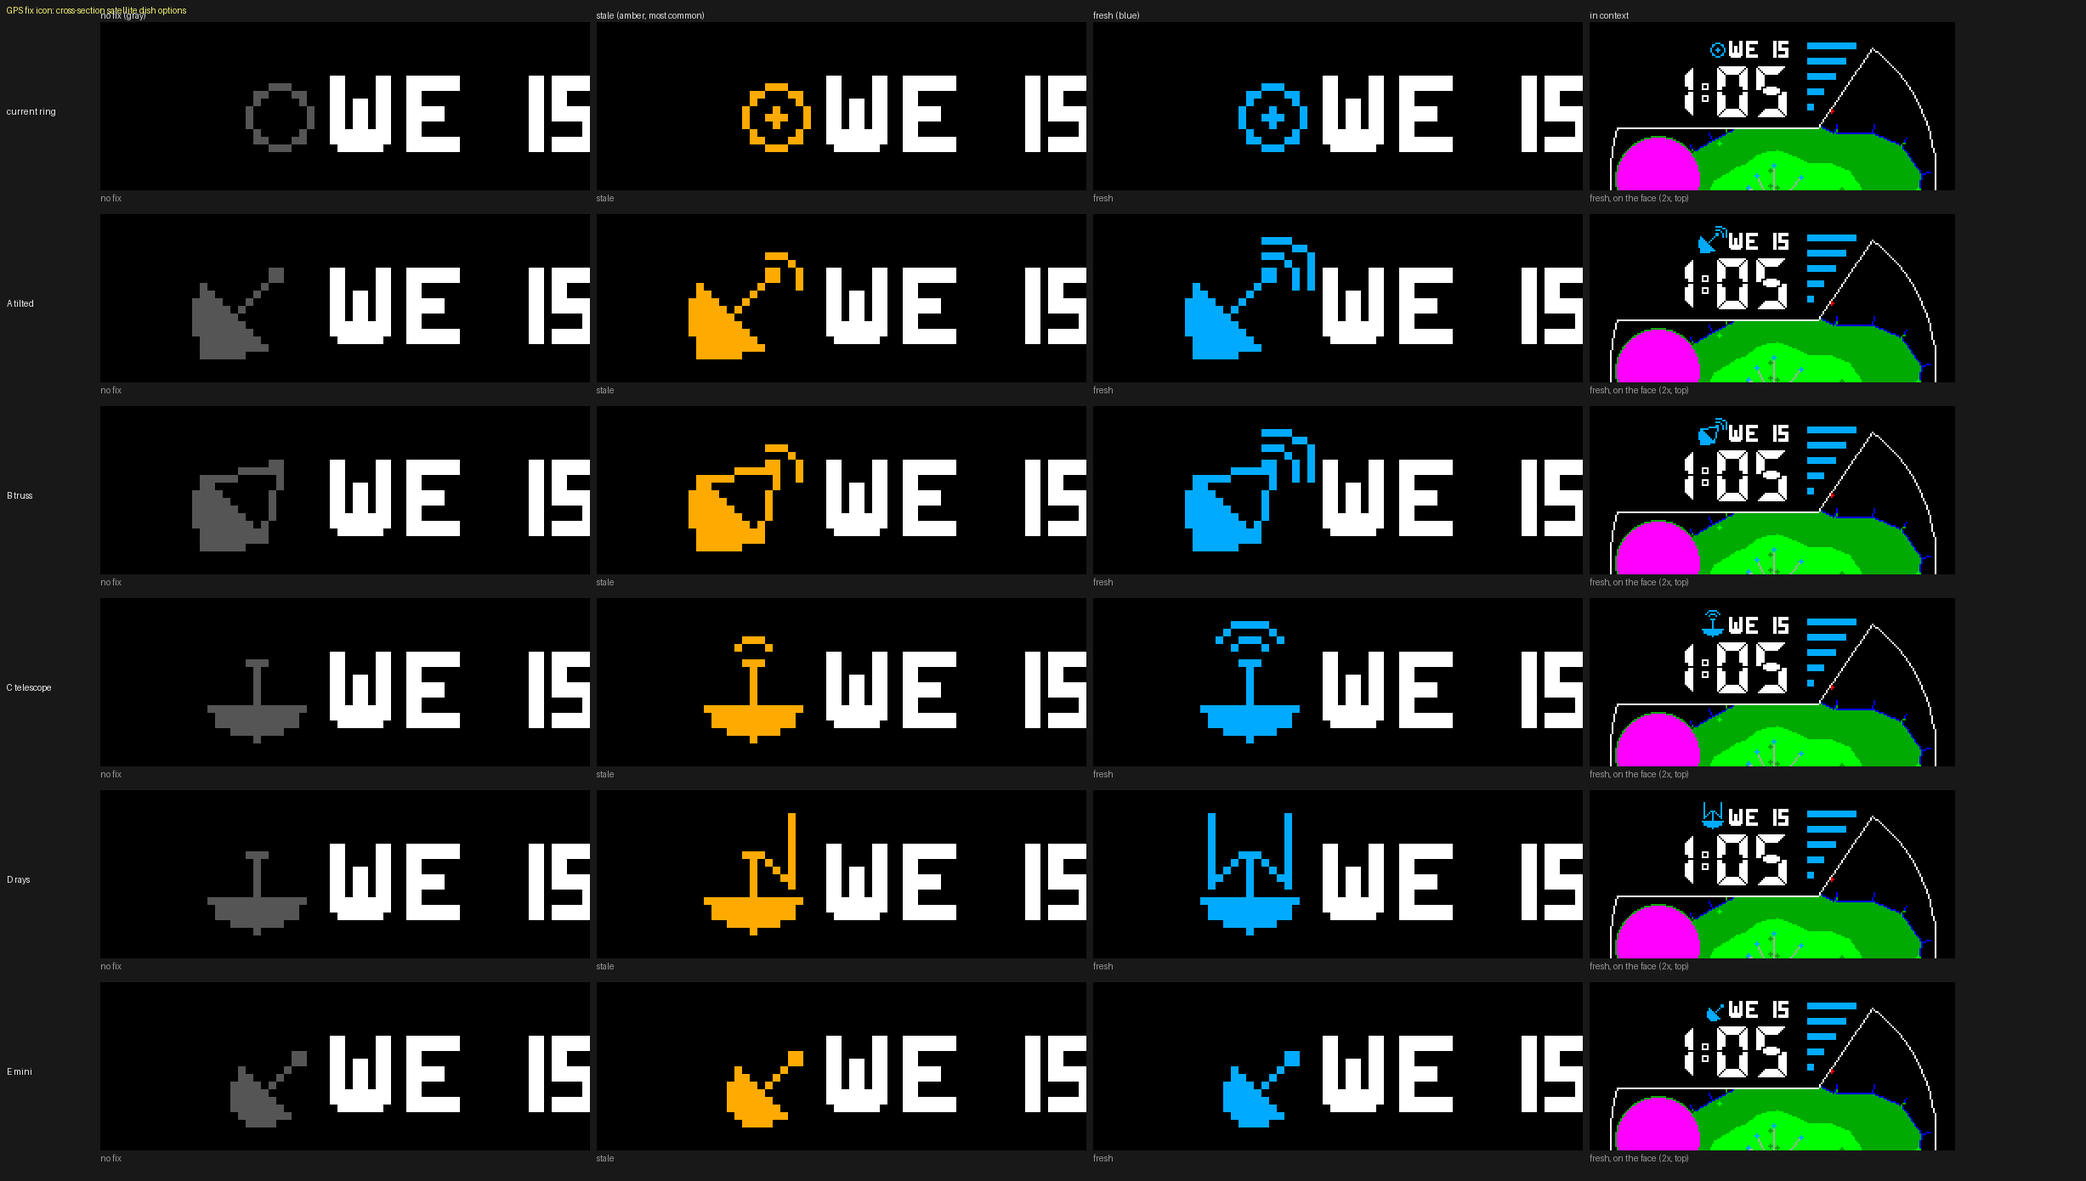
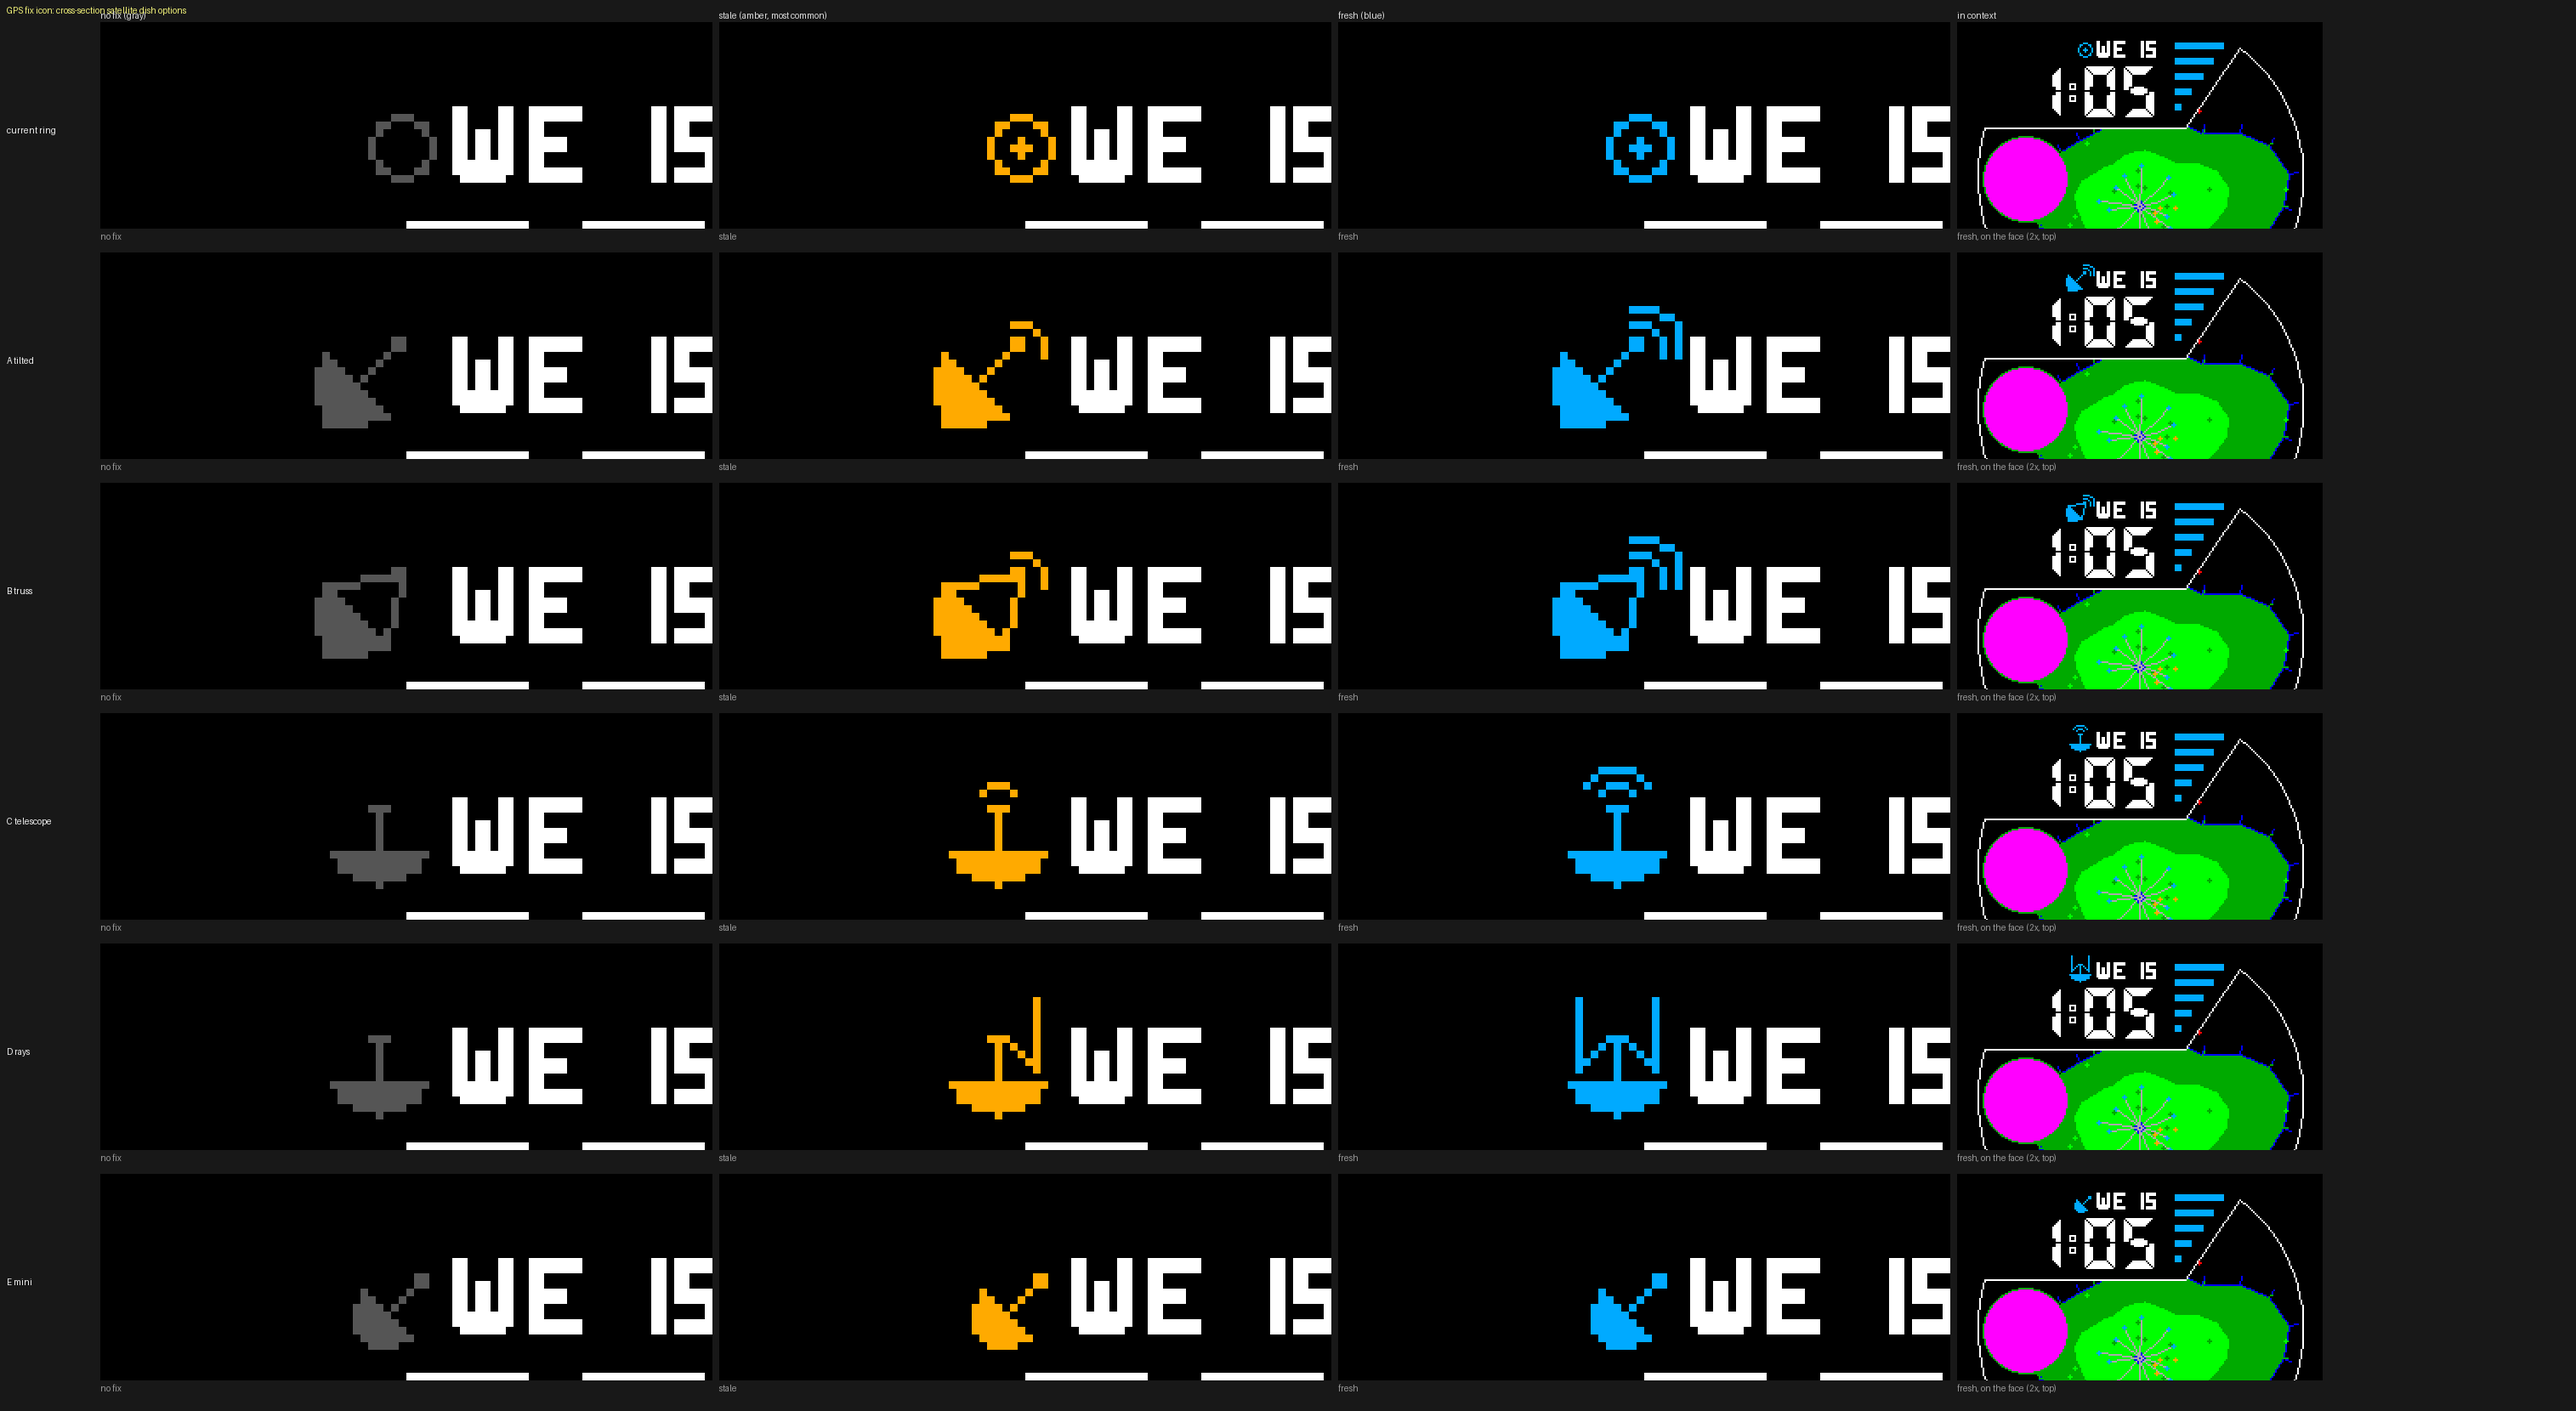
sandbox: GPS dish round 5 -- depth 5/6 scaled up, four placements
Owner chose depth 5/6; scaled ~1.33x (rim half-width 8, depth 6.7, arm 4,
waves r 5/8, ellipse sampled at 10: convex, nub-free) and placed at the
date / nudged left / over the colon / over the hour. All on the glass,
bottom <= 24 (clock at 26); context crop widened to show the clock tops.

Claude-Session: https://claude.ai/code/session_016UcnARTYVw2ygjZqsFC5qt

diff --git a/sketches/gps_dish_compare.py b/sketches/gps_dish_compare.py
@@ -269,7 +269,7 @@ DESIGNS = [("current ring", Current()), ("A tilted", Tilted()),
            ("B truss", Truss()), ("C telescope", Telescope()),
            ("D rays", Rays()), ("E mini", Minimal())]
 
-CROP = (52, 4, 116, 26)          # the icon + the day-of-week, for context
+CROP = (36, 0, 116, 27)          # the icon + the day-of-week, for context
 ZOOM = 9
 DATE, OFF, DOW = (2026, 10, 15), -7 * 3600, 4
 
@@ -315,26 +315,47 @@ def half_ellipse(cx, cy, a, b, n=8):
 
 
 class FlatDish:
-    """A up-left, flatter, shorter arm, no mount."""
+    """A up-left, flatter, shorter arm, no mount. Round 5 scales it: rim
+    half-width a, depth b, arm steps, wave radii, feed horn size, n ellipse
+    samples (re-checked convex + nub-free per size)."""
 
-    def __init__(self, depth, arm=3, cx=71, cy=15):
+    def __init__(self, depth, arm=3, cx=71, cy=15, a=6, wr=(4, 6), feed=2,
+                 n=8):
         self.cx, self.cy = cx, cy
-        self.disc = half_ellipse(cx, cy, 6, depth)
+        self.disc = half_ellipse(cx, cy, a, depth, n)
         self.feed = (cx - arm, cy - arm)
+        self.wr, self.fs = wr, feed
 
     def draw(self, dc, g):
         dc.setColor(STATE_COLOR[g], COLOR_TRANSPARENT)
         dc.fillPolygon(self.disc)
         fx, fy = self.feed
         dc.drawLine(self.cx, self.cy, fx, fy)             # arm
-        dc.fillRectangle(fx - 1, fy - 1, 2, 2)            # feed horn
-        waves(dc, fx - 1, fy - 1, g, 80, 190, 4, 6)
+        dc.fillRectangle(fx - 1, fy - 1, self.fs, self.fs)  # feed horn
+        waves(dc, fx - 1, fy - 1, g, 80, 190, self.wr[0], self.wr[1])
 
 
 FLAT_DESIGNS = [("round 3 A", LeftTilt(False)),
                 ("flatter (5/6)", FlatDish(5)),
                 ("flatter (4/6)", FlatDish(4)),
                 ("flatter (3/6)", FlatDish(3))]
+
+
+# --- round 5 (owner, 2026-10-16): depth 5/6 chosen; scale up ~1.33x for
+# more curve resolution (rim half-width 8, depth 6.7, arm 4, waves r 5/8,
+# ellipse sampled at 10 -- convex, nub-free) and try positions along the
+# top of the clock: at the date / nudged left / over the colon / over the
+# hour. All on the glass, bottom <= 24 (clock digits at 26).
+
+def big(cx, cy):
+    return FlatDish(6.7, arm=4, cx=cx, cy=cy, a=8, wr=(5, 8), feed=2, n=10)
+
+
+BIG_DESIGNS = [("round 4 (5/6)", FlatDish(5)),
+               ("big @ date", big(70, 15)),
+               ("big, nudged left", big(66, 15)),
+               ("big, over colon", big(61, 16)),
+               ("big, over hour", big(55, 16))]
 
 
 def compare(designs, name, title, states, ctx_state):
@@ -378,6 +399,9 @@ def main():
             (0, 1, 2), 2)
     compare(LEFT_DESIGNS, "gps-dish-left",
             "GPS fix icon round 3: facing left, clear of the date",
+            (1, 2, 0), 1)
+    compare(BIG_DESIGNS, "gps-dish-big",
+            "GPS fix icon round 5: depth 5/6, scaled up, placement",
             (1, 2, 0), 1)
     compare(FLAT_DESIGNS, "gps-dish-flat",
             "GPS fix icon round 4: A up-left, flatter, shorter arm, no mount",
